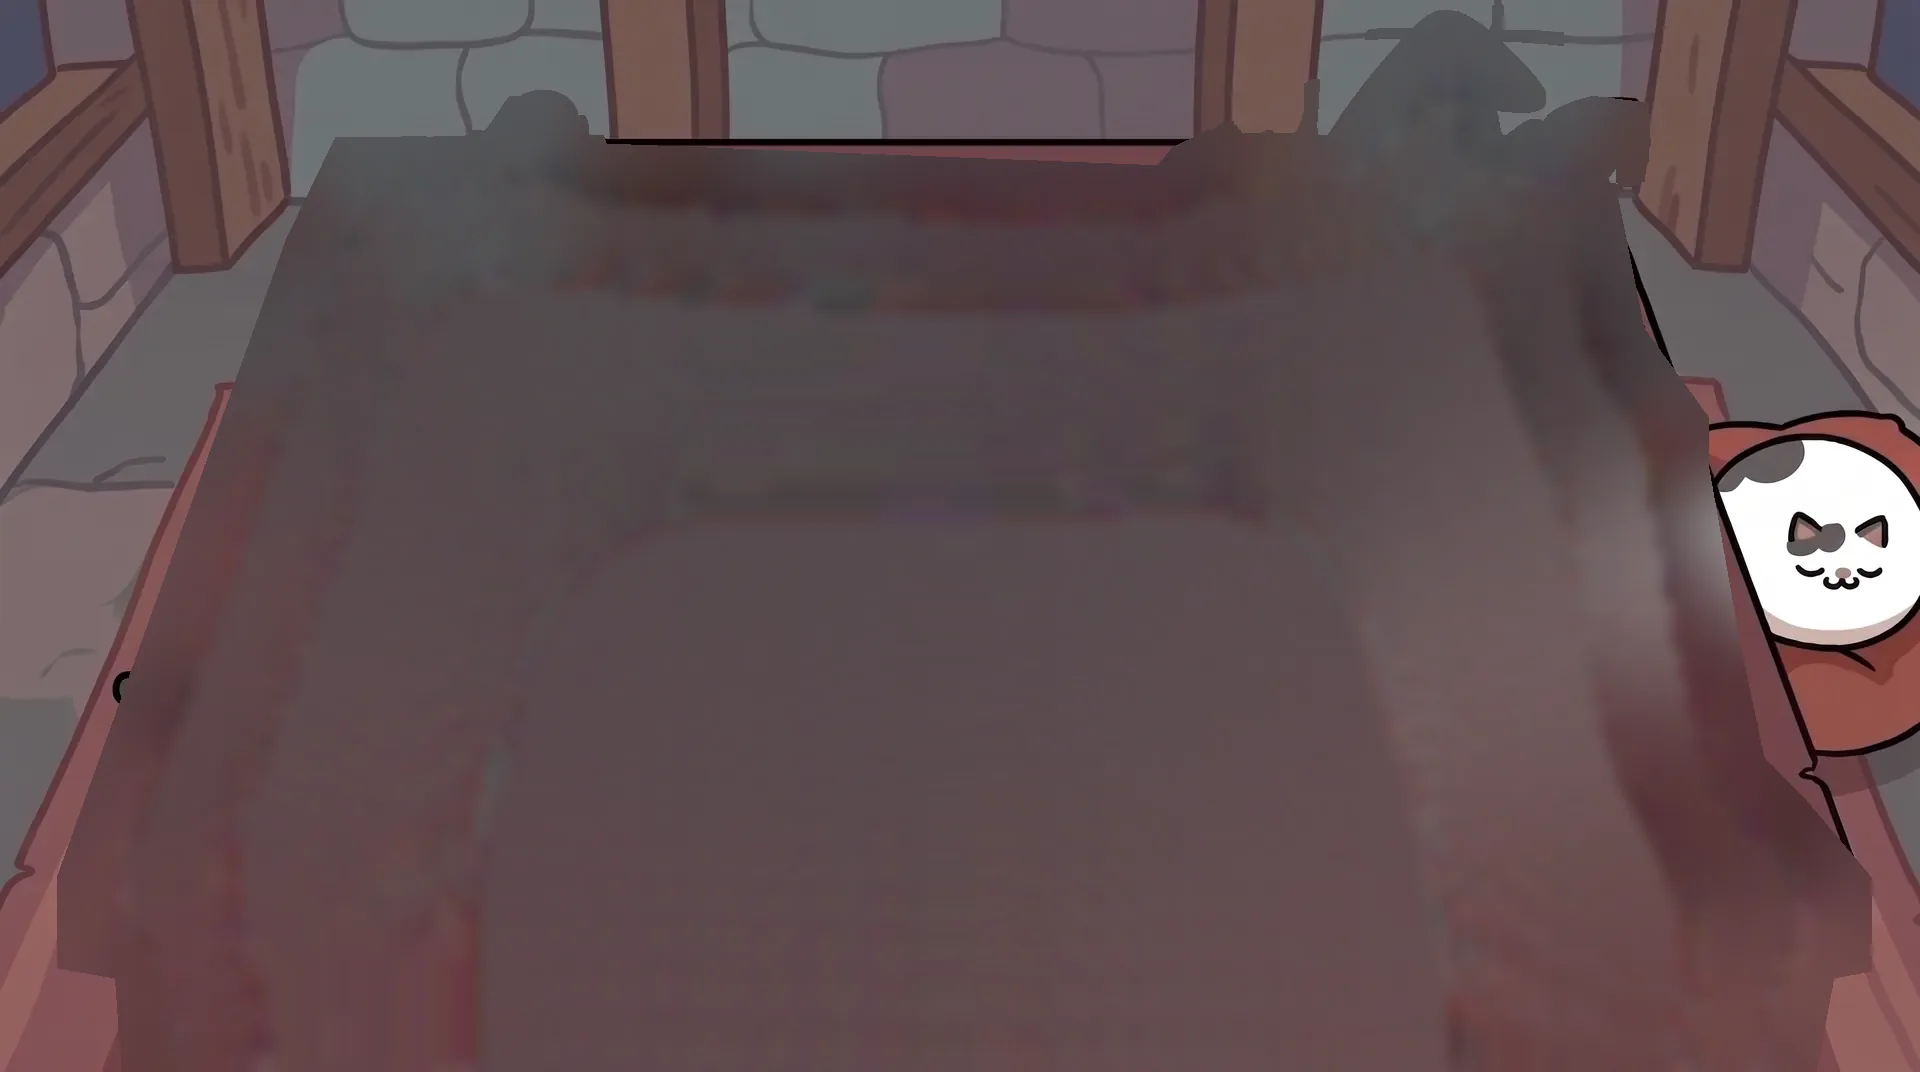
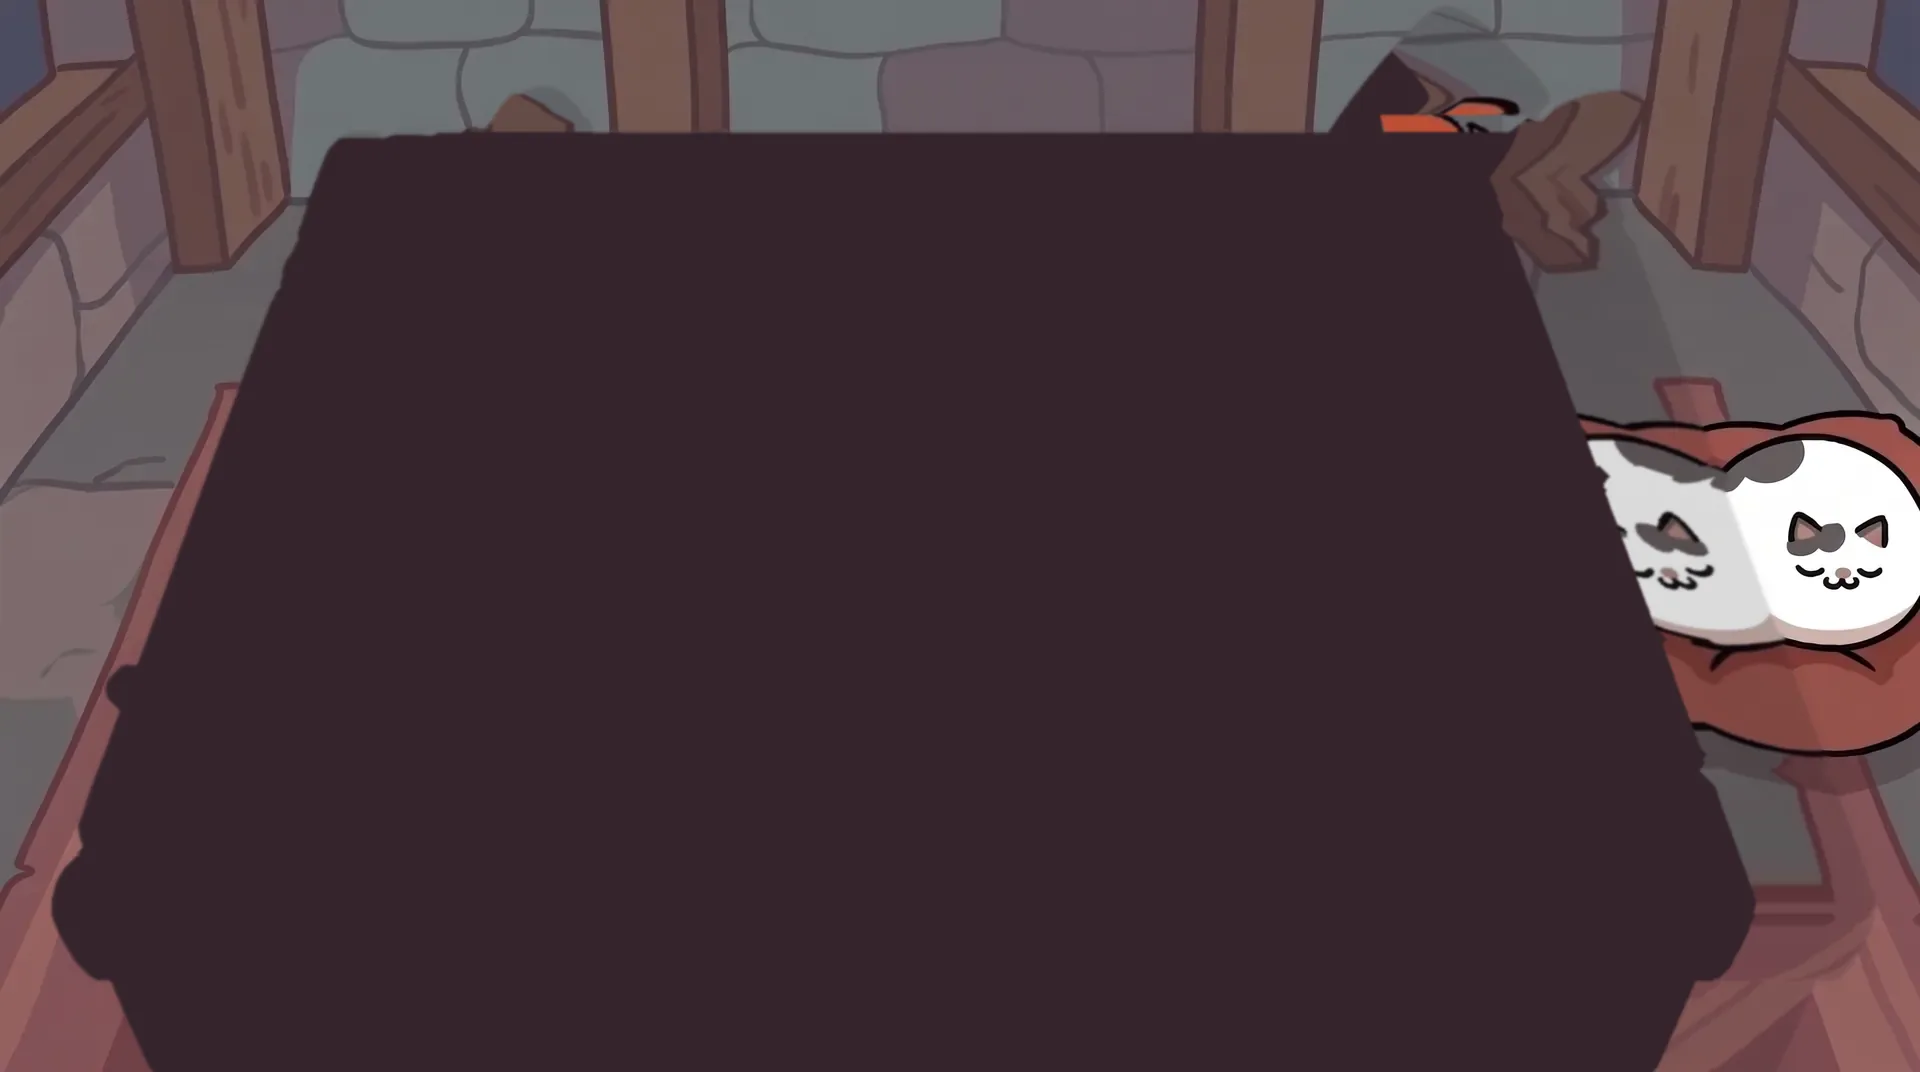
fix(lab): 책상 겹 윤곽을 그림 선 기준으로 다시 따고, 옥자 팔을 화면 밖까지 잇기
- desk_layers: 손으로 잰 다각형 대신 검은 윤곽선을 벽으로 가장자리에서 배경을 채워 책상을 분리(모자·유령 둘레 정확), 뒤 겹은 드러나는 띠만 거울상으로 채움
- hand_reach: 소매 끝 열을 이어 붙인 hand-reach.webp — 팔이 화면 밖까지 이어진다
- 손이 새 책을 밀어 넣고 표지를 들어 올린 뒤 화면 밖으로 거둔다(투명도 페이드 없음), 그림자 추가
- 빠져나간 책은 끝에서 숨김 — 모바일 원근에서 바닥 그림자가 새 쪽 위에 비스듬히 걸리던 문제

diff --git a/src/app/lab/book-depth/BookDepthLab.tsx b/src/app/lab/book-depth/BookDepthLab.tsx
@@ -115,7 +115,9 @@ export function BookDepthLab() {
       { transform: REST, easing: EASE_CAM },
       { transform: DESK, offset: (T.zoomOutEnd - T.zoomOutStart) / fromSpan, easing: "cubic-bezier(0.5, 0, 0.85, 0.4)" },
       { transform: DESK, offset: (T.slideStart - T.zoomOutStart) / fromSpan, easing: "cubic-bezier(0.5, 0, 0.85, 0.4)" },
-      { transform: OUT_L },
+      { transform: OUT_L, opacity: 1, offset: 0.97 },
+      // 화면 밖에 나간 뒤엔 숨긴다 — 모바일 원근에서 바닥 그림자가 비스듬히 늘어나 새 쪽 위에 걸린다
+      { transform: OUT_L, opacity: 0 },
     ], o(T.zoomOutStart, T.slideEnd, "linear"));
     // 새 책이 오른쪽에서 미끄러져 들어와 → 다가오며 → 앞표지가 열린다
     const toStart = T.slideStart + 40;
@@ -129,13 +131,17 @@ export function BookDepthLab() {
     add(to.hinge, [{ transform: "rotateY(0deg)" }, { transform: "rotateY(-180deg)" }], o(T.openStart, T.openEnd, EASE_TURN));
     add(to.shade, [{ opacity: 0 }, { opacity: 0.6 }], o(T.openStart, (T.openStart + T.openEnd) / 2, "ease-in"));
     if (hand && to.hand) {
+      // 옥자 손: 소매가 화면 밖까지 이어진 채로 새 책을 밀어 넣고 → 표지 끝을 짚어 들어 올리며 따라가다 →
+      // 화면 밖으로 거둔다. 허공에서 나타나거나 사라지지 않도록 투명도는 건드리지 않는다
+      const handSpan = T.openEnd - toStart;
+      const lift = T.openStart + (T.openEnd - T.openStart) * 0.35;
+      const at = (x: number) => `translateX(${x}px) translateZ(4px)`;
       add(to.hand, [
-        { transform: "translateX(22%)", opacity: 0 },
-        { transform: "translateX(0)", opacity: 1, offset: 0.2 },
-        { opacity: 1, offset: 0.45 },
-        { transform: `translateX(${-geo.pw * 0.9}px)`, opacity: 0, offset: 0.7 },
-        { transform: `translateX(${-geo.pw * 0.9}px)`, opacity: 0 },
-      ], o(T.openStart - 120, T.openEnd, EASE_TURN));
+        { transform: at(0), opacity: 1 },
+        { transform: at(0), opacity: 1, offset: (T.openStart - toStart) / handSpan, easing: "cubic-bezier(0.3, 0, 0.3, 1)" },
+        { transform: at(-geo.pw * 0.3), opacity: 1, offset: (lift - toStart) / handSpan, easing: "cubic-bezier(0.5, 0, 0.9, 0.6)" },
+        { transform: at(geo.pw * 2.6), opacity: 1 },
+      ], o(toStart, T.openEnd, "linear"));
     }
     // 책상 2.5D 겹 — 펼친 상태는 가까이(확대), 책이 눕는 동안 물러나고, 새 책이 들어올 때 옆으로 흘렀다가 다시 다가간다.
     // 앞 겹(책상)이 뒤 겹(벽·바닥)보다 크게 움직여 깊이가 생긴다

diff --git a/src/app/lab/book-depth/lab.css b/src/app/lab/book-depth/lab.css
@@ -155,18 +155,26 @@
   -webkit-backface-visibility: hidden;
   box-shadow: inset -28px 0 30px -24px rgba(40, 20, 15, 0.45);
 }
+/* 옥자 손 — 손 부분 폭은 쪽 폭의 1.15배, 소매를 두 배 더 늘인 그림(hand-reach)이라 전체는 3배.
+   손끝(그림 왼쪽 끝)이 앞표지 오른쪽 끝을 짚고, 팔은 책 오른쪽으로 화면 밖까지 이어진다 */
 .b3d-hand {
+  --hand-w: calc(var(--pw) * 1.15);
   position: absolute;
-  top: calc(50% - var(--pw) * 1.15 * 452 / 700 * 0.36);
-  left: calc(var(--pw) * 0.92 - var(--pw) * 1.15 * 0.03);
-  width: calc(var(--pw) * 1.15);
-  aspect-ratio: 700 / 452;
+  top: calc(50% - var(--hand-w) * 452 / 700 * 0.36);
+  left: calc(var(--pw) * 0.92 - var(--hand-w) * 0.03);
+  width: calc(var(--hand-w) * 3);
+  aspect-ratio: 2100 / 452;
   transform: translateZ(4px);
   opacity: 0;
   pointer-events: none;
-  mask-image: linear-gradient(90deg, #000 72%, transparent 97%);
 }
-.b3d-hand img { width: 100%; height: 100%; display: block; }
+/* 책·책상에 떨어지는 그림자로 장면에 붙인다 */
+.b3d-hand img {
+  width: 100%;
+  height: 100%;
+  display: block;
+  filter: drop-shadow(-6px 14px 10px rgba(20, 8, 16, 0.45));
+}
 
 /* 시험판 쪽 내용 */
 .lab-kicker { font-size: 0.8rem; letter-spacing: 0.12em; color: var(--home-sheet-muted); }

diff --git a/src/app/lab/book-depth/Book3D.tsx b/src/app/lab/book-depth/Book3D.tsx
@@ -35,10 +35,10 @@ export const Book3D = forwardRef<
         </div>
         <div className="b3d-page b3d-page-left book-paper">{left}</div>
       </div>
-      {/* 펼치는 손 — 손끝(그림 왼쪽 끝)이 앞표지 오른쪽 끝을 짚는다 */}
+      {/* 옥자 손 — 손끝(그림 왼쪽 끝)이 앞표지 오른쪽 끝을 짚고, 소매는 화면 밖까지 이어진다 */}
       <div ref={handRef} className="b3d-hand">
         {/* eslint-disable-next-line @next/next/no-img-element -- 시험판 정적 그림 */}
-        <img src="/home/book/art/hand-open.webp" alt="" draggable={false} />
+        <img src="/home/book/art/hand-reach.webp" alt="" draggable={false} />
       </div>
     </div>
   );

diff --git a/scripts/book-art/desk_layers.py b/scripts/book-art/desk_layers.py
@@ -1,93 +1,107 @@
-#!/usr/bin/env python3
+# /// script
+# requires-python = ">=3.10"
+# dependencies = ["numpy", "scipy", "pillow", "opencv-python-headless"]
+# ///
 """책상 무대 2.5D 겹 나누기 — desk.webp → desk-back.webp(벽·바닥) + desk-top.webp(책상+소품, 투명 배경)
 
-시험판(feat/book-depth-lab)용. 책상 윤곽은 손으로 잰 다각형이고, 책상 윗선 위로 솟은 모자·두루마리는
-다각형 안에서도 벽 색(밝은 회청 돌·나무 기둥) 픽셀을 걸러 낸다. 뒤 겹의 책상 자리는
-정규화 합성곱(주변 색 번짐)으로 채운다 — 겹이 몇 px만 어긋나므로 가장자리 띠만 보이면 된다.
-PIL만 쓴다.
+사용: uv run scripts/book-art/desk_layers.py
+
+시험판(feat/book-depth-lab)용. 손으로 잰 다각형은 모자·유령 둘레가 어긋나서 버리고,
+그림의 검은 윤곽선을 벽으로 삼아 화면 가장자리(위·왼쪽·오른쪽)에서 배경을 채워 들어간다.
+  1. 어두운 픽셀(윤곽선) = 벽 → 가장자리에서 닿는 밝은 영역 = 배경(벽·바닥·유령)
+  2. 배경이 아닌 곳 = 책상 후보. 벽돌 줄눈 같은 가는 선은 열림 연산으로 떼고,
+     화면 가운데와 이어진 덩어리만 남긴 뒤 구멍을 메우고, 떼면서 깎인 바깥 윤곽선을 되살린다.
+  3. 뒤 겹의 책상 자리는 행마다 옆 벽·바닥의 거울상으로 채운다 — 겹이 수십 px만
+     어긋나므로 가장자리 띠만 자연스러우면 된다.
 """
 import pathlib
 
-from PIL import Image, ImageChops, ImageDraw, ImageFilter
+import cv2
+import numpy as np
+from PIL import Image
+from scipy import ndimage as ndi
 
 ROOT = pathlib.Path(__file__).resolve().parents[2]
 ART = ROOT / "public/home/book/art"
 
-# 1920×1072 기준 책상 윤곽 (모자·두루마리 끝 포함)
-DESK = [(338, 140), (470, 138), (505, 92), (590, 92), (602, 146), (1160, 168), (1175, 150), (1330, 75),
-        (1395, 8), (1560, 8), (1560, 95), (1645, 105), (1648, 175), (1612, 190), (1640, 330), (1705, 420),
-        (1705, 470), (1735, 640), (1760, 760), (1800, 800), (1868, 880), (1868, 968), (1830, 975),
-        (1812, 1072), (125, 1072), (118, 975), (60, 965), (60, 880), (290, 240)]
+LINE_LUM = 70  # 이보다 어두우면 윤곽선
+THIN = 6  # 이 반경(px) 이하로 가는 선(벽 기둥·유령 윤곽)은 책상에서 뗀다
+BAND = 120  # 뒤 겹에서 거울상으로 채우는 경계 띠 폭(px) — 교체 중 드러나는 폭(약 30px)보다 넉넉히
+SHADOW = (58, 40, 48)  # 책상 밑 그늘색
+CORE = (600, 960)  # 책상 한가운데 (y, x) — 1920×1072 기준
 
 
-def top_edge_y(x: float) -> float:
-    # 책상 윗선 (338,140) → (1612,190)
-    return 140 + (x - 338) * (190 - 140) / (1612 - 338)
+def desk_mask(rgb: np.ndarray) -> np.ndarray:
+    lum = rgb[..., 0] * 0.299 + rgb[..., 1] * 0.587 + rgb[..., 2] * 0.114
+    wall = ndi.binary_dilation(lum < LINE_LUM, iterations=1)
+    free = ~wall
+    free[-1, :] = False  # 아래 가장자리는 책상 서랍이 닿으므로 씨앗에서 뺀다
+    lab, _ = ndi.label(free)
+    seeds = set(np.unique(lab[0, :])) | set(np.unique(lab[:-1, 0])) | set(np.unique(lab[:-1, -1]))
+    seeds.discard(0)
+    bg = np.isin(lab, list(seeds))
+    if bg[CORE]:
+        raise SystemExit("배경 채우기가 책상 안으로 샜다 — 윤곽선이 끊긴 곳을 확인할 것")
 
-
-def is_wall(rgb: tuple[int, int, int]) -> bool:
-    r, g, b = rgb
-    lum = (r * 299 + g * 587 + b * 114) / 1000
-    stone = lum > 95 and b >= r - 8 and abs(r - g) < 28  # 회청 돌
-    beam = lum > 70 and r > b + 12 and g > b and r < 175 and abs(r - g) < 45 and not (r > 150 and g < 90)  # 나무 기둥
-    return stone or beam
+    cand = ~bg
+    disk = ndi.generate_binary_structure(2, 1)
+    core = ndi.binary_opening(cand, structure=disk, iterations=THIN)
+    lab, _ = ndi.label(core)
+    core = lab == lab[CORE]
+    core = ndi.binary_fill_holes(core)
+    # 열림 연산에 깎인 책상 바깥 윤곽선을 되살린다 (배경 쪽으로는 넘지 않게)
+    mask = ndi.binary_dilation(core, structure=disk, iterations=THIN + 1) & cand
+    mask = ndi.binary_fill_holes(mask | core)
+    # 되살리면서 같이 자란 벽 기둥 선 토막(폭 ~8px)을 떼어 낸다
+    mask = ndi.binary_opening(mask, structure=disk, iterations=5)
+    return mask
 
 
 def main() -> None:
     src = Image.open(ART / "desk.webp").convert("RGB")
-    w, h = src.size
-    mask = Image.new("L", (w, h), 0)
-    ImageDraw.Draw(mask).polygon(DESK, fill=255)
-    # 책상 윗선 위쪽(모자·두루마리 영역)에서 벽 색 픽셀은 뒤 겹으로
-    px, mp = src.load(), mask.load()
-    for y in range(0, 200):
-        for x in range(300, 1700):
-            if mp[x, y] and y < top_edge_y(x) - 4 and is_wall(px[x, y]):
-                mp[x, y] = 0
-    # 잔티 제거: 작은 구멍 메우고 가장자리 1px 부드럽게
-    mask = mask.filter(ImageFilter.MaxFilter(3)).filter(ImageFilter.MinFilter(3)).filter(ImageFilter.GaussianBlur(0.8))
+    rgb = np.asarray(src)
+    mask = desk_mask(rgb.astype(np.float32))
 
-    top = src.convert("RGBA")
-    top.putalpha(mask)
-    top.save(ART / "desk-top.webp", quality=90, method=6)
+    # 앞 겹 — 가장자리 1px만 부드럽게
+    alpha = cv2.GaussianBlur(mask.astype(np.float32), (0, 0), 0.7)
+    top = np.dstack([rgb, (alpha * 255).round().astype(np.uint8)])
+    Image.fromarray(top, "RGBA").save(ART / "desk-top.webp", quality=90, method=6)
 
-    # 뒤 겹: 책상 자리를 주변 색으로 번져 채운다 (정규화 합성곱, 반경을 키워 가며)
-    hole = mask.point(lambda v: 255 if v > 8 else 0)
-    keep = ImageChops.invert(hole)
-    filled = src.copy()
-    small_scale = 8
-    sw, sh = w // small_scale, h // small_scale
-    s_img = src.resize((sw, sh), Image.BILINEAR)
-    s_keep = keep.resize((sw, sh), Image.BILINEAR)
-    acc = None
-    for radius in (4, 10, 24, 60):
-        num = Image.composite(s_img, Image.new("RGB", (sw, sh)), s_keep).filter(ImageFilter.GaussianBlur(radius))
-        den = s_keep.filter(ImageFilter.GaussianBlur(radius))
-        npx, dpx = num.load(), den.load()
-        out = Image.new("RGB", (sw, sh))
-        op = out.load()
-        for y in range(sh):
-            for x in range(sw):
-                d = dpx[x, y]
-                if d > 6:
-                    r, g, b = npx[x, y]
-                    k = 255 / d
-                    op[x, y] = (min(255, int(r * k)), min(255, int(g * k)), min(255, int(b * k)))
-                else:
-                    op[x, y] = (0, 0, 0)
-        if acc is None:
-            acc = out
-        else:
-            valid = den.point(lambda v: 255 if v > 6 else 0)
-            accv = acc_valid
-            acc = Image.composite(acc, out, accv)
-        acc_valid = den.point(lambda v: 255 if v > 6 else 0) if acc is out else ImageChops.lighter(acc_valid, den.point(lambda v: 255 if v > 6 else 0))
-    fill = acc.resize((w, h), Image.BILINEAR).filter(ImageFilter.GaussianBlur(6))
-    # 채운 자리는 살짝 어둡게 — 책상 그늘
-    fill = Image.blend(fill, Image.new("RGB", (w, h), (20, 14, 20)), 0.25)
-    filled = Image.composite(fill, src, hole.filter(ImageFilter.MaxFilter(5)))
-    filled.save(ART / "desk-back.webp", quality=82, method=6)
-    print("desk-top / desk-back 저장")
+    # 뒤 겹 — 책상 자리(넉넉히 넓힌)를 행마다 오른쪽 경계 기준 좌우 거울상으로 채운다.
+    # 교체 중 책상 겹이 왼쪽으로 더 흘러 드러나는 곳은 책상 오른쪽 가장자리 띠라서, 바로 옆 벽·바닥·유령의
+    # 결이 이어져 보이는 거울상이 번짐(inpaint)보다 자연스럽다. 오른쪽에 채울 거리가 없으면 왼쪽 거울상.
+    hole = ndi.binary_dilation(mask, iterations=6)
+    h, w = hole.shape
+    back = rgb.copy()
+    for y in range(h):
+        row = hole[y]
+        x = 0
+        while x < w:
+            if not row[x]:
+                x += 1
+                continue
+            x0 = x
+            while x < w and row[x]:
+                x += 1
+            x1 = x  # [x0, x1) 구멍 구간
+            xs = np.arange(x0, x1)
+            if x1 < w:
+                src_x = 2 * x1 - 1 - xs  # 오른쪽 경계 거울상
+            else:
+                src_x = 2 * x0 - 1 - xs  # 왼쪽 경계 거울상
+            src_x = np.clip(src_x, 0, w - 1)
+            back[y, x0:x1] = rgb[y, src_x]
+            # 경계에서 BAND보다 먼 안쪽은 드러날 일이 없으니 그늘색으로 (거울상 줄무늬 방지)
+            far = (x1 - 1 - xs) > BAND if x1 < w else (xs - x0) > BAND
+            back[y, x0:x1][far] = SHADOW
+    # 거울 이음매를 누그러뜨리고 살짝 어둡게 — 책상 그늘
+    soft_fill = cv2.GaussianBlur(back, (0, 0), 1.2).astype(np.float32)
+    shade = np.array([20, 14, 20], np.float32)
+    soft_fill = soft_fill * 0.85 + shade * 0.15
+    soft = cv2.GaussianBlur(hole.astype(np.float32), (0, 0), 2)[..., None]
+    back = rgb.astype(np.float32) * (1 - soft) + soft_fill * soft
+    Image.fromarray(back.clip(0, 255).astype(np.uint8)).save(ART / "desk-back.webp", quality=82, method=6)
+    print(f"desk-top / desk-back 저장 (책상 {mask.mean():.1%})")
 
 
 if __name__ == "__main__":

diff --git a/scripts/book-art/hand_reach.py b/scripts/book-art/hand_reach.py
@@ -1,0 +1,36 @@
+#!/usr/bin/env python3
+"""옥자 손 팔 늘이기 — hand-open.webp → hand-reach.webp (시험판 feat/book-depth-lab용)
+
+사용: python3 scripts/book-art/hand_reach.py
+
+hand-open은 소매가 그림 오른쪽 끝에서 잘려 있어, 책 위에 두면 팔이 허공에서 끊겨 보인다.
+오른쪽 끝 한 열(위·아래 검은 윤곽선 포함)을 EXTEND px만큼 이어 붙여 소매가 화면 밖까지
+이어지게 한다. 멀어질수록 조금씩 어둡게 — 화면 밖 그늘로 녹아든다. PIL만 쓴다.
+"""
+import pathlib
+
+from PIL import Image
+
+ART = pathlib.Path(__file__).resolve().parents[2] / "public/home/book/art"
+EXTEND = 1400  # 늘일 길이(px) — 원본 폭(700)의 두 배
+DARKEN = 0.22  # 끝에서 이만큼 어둡게
+
+
+def main() -> None:
+    hand = Image.open(ART / "hand-open.webp").convert("RGBA")
+    w, h = hand.size
+    out = Image.new("RGBA", (w + EXTEND, h), (0, 0, 0, 0))
+    out.paste(hand, (0, 0))
+    col = hand.crop((w - 1, 0, w, h)).load()
+    px = out.load()
+    for i in range(EXTEND):
+        k = 1 - DARKEN * min(1.0, i / (EXTEND * 0.6))
+        for y in range(h):
+            r, g, b, a = col[0, y]
+            px[w + i, y] = (round(r * k), round(g * k), round(b * k), a)
+    out.save(ART / "hand-reach.webp", quality=88, method=6)
+    print(f"hand-reach 저장 {out.size}")
+
+
+if __name__ == "__main__":
+    main()
